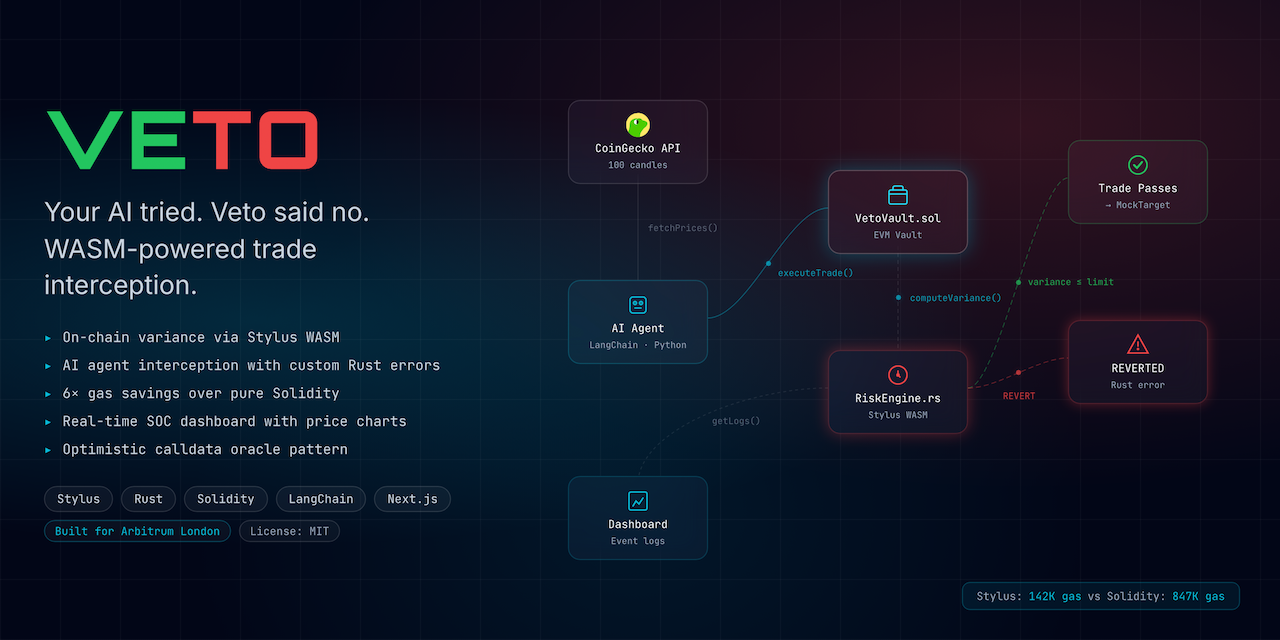
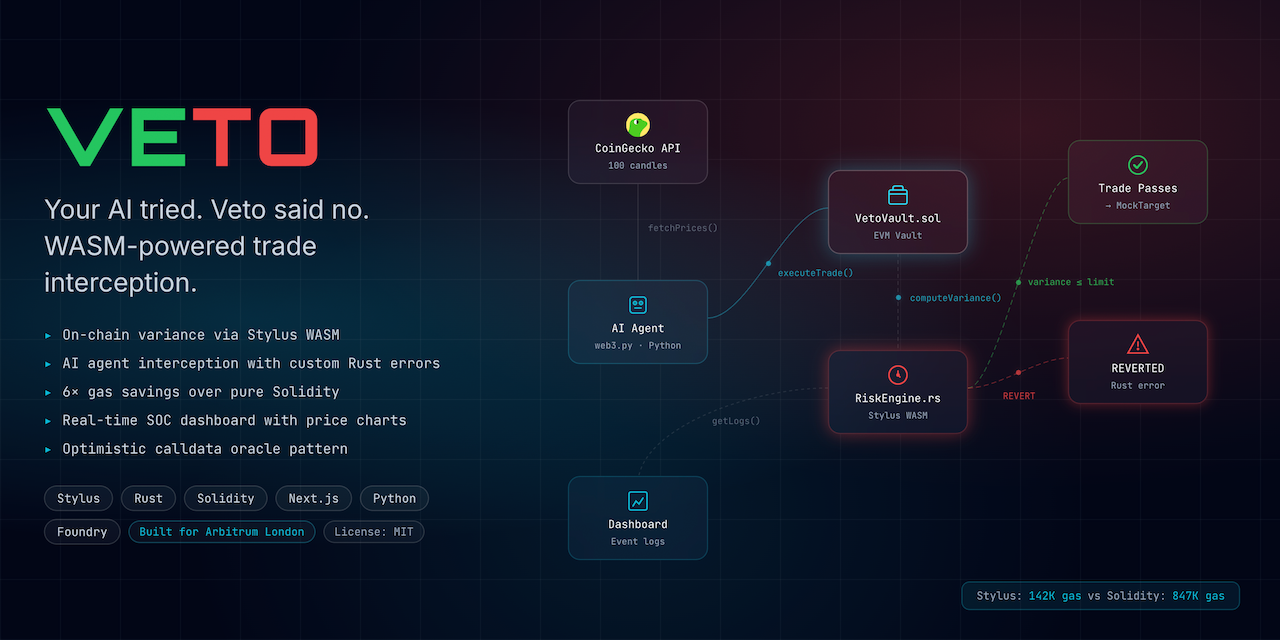
docs: add security policy, update documentation, and refine test/deployment configurations

diff --git a/dashboard/src/app/layout.tsx b/dashboard/src/app/layout.tsx
@@ -13,7 +13,7 @@ const jetbrainsMono = JetBrains_Mono({
 });
 
 export const metadata: Metadata = {
-  metadataBase: new URL("https://veto-dashboard.vercel.app"),
+  metadataBase: new URL("https://veto.edycu.dev"),
   title: "Veto — Your AI tried. Veto said no.",
   description:
     "Hybrid EVM/WASM execution sandbox that physically prevents AI agents from executing hallucinated trades. Solidity holds the money. Rust does the math. Built on Robinhood Chain with Arbitrum Stylus.",
@@ -24,7 +24,7 @@ export const metadata: Metadata = {
     title: "Veto — Your AI tried. Veto said no.",
     description:
       "Hybrid EVM/WASM execution sandbox that blocks volatile AI trades on-chain via Stylus math coprocessor.",
-    url: "https://veto-dashboard.vercel.app",
+    url: "https://veto.edycu.dev",
     siteName: "Veto",
     images: [
       {

diff --git a/README.md b/README.md
@@ -70,7 +70,7 @@ Autonomous AI trading agents are proliferating across DeFi. They optimize for re
 
 | Layer | Technology |
 |---|---|
-| **Vault** | Solidity (EVM) — fund custody, access control, 23 passing tests |
+| **Vault** | Solidity (EVM) — fund custody, access control, 33 passing tests |
 | **Risk Engine** | Rust/Stylus (WASM) — variance computation, `no_std`, U256 math |
 | **AI Agent** | Python + web3.py — market monitoring + trade execution |
 | **Dashboard** | Next.js 16 + Tailwind v4 — cyberpunk control panel |
@@ -110,7 +110,7 @@ Autonomous AI trading agents are proliferating across DeFi. They optimize for re
 git clone https://github.com/edycutjong/veto.git
 cd veto
 
-# 2. Run Solidity tests (23 tests)
+# 2. Run Solidity tests (33 tests)
 cd contracts/solidity && forge test -vvv && cd ../..
 
 # 3. Build Stylus WASM
@@ -134,7 +134,7 @@ npm run lint          # ESLint
 npm run typecheck     # TypeScript check
 npm run ci            # Full CI pipeline (lint + typecheck + test + build)
 
-# Solidity (23 tests)
+# Solidity (33 tests)
 cd contracts/solidity
 forge test -vvv
 
@@ -143,43 +143,45 @@ cd contracts/stylus
 cargo test --features stylus-test
 ```
 
-CI runs on every push via GitHub Actions: Dashboard (Node 20/22/24), Foundry tests, and Stylus WASM build.
+CI runs on every push via GitHub Actions: Dashboard lint + typecheck + test + build (Node 20/22/24), Foundry tests, and Stylus WASM build.
 
 ## 📁 Project Structure
 
 ```
 veto/
 ├── contracts/
-│   ├── solidity/               # EVM layer
+│   ├── solidity/                   # EVM layer
 │   │   ├── src/
 │   │   │   ├── VetoVault.sol       # Fund custody + trade interception
 │   │   │   ├── IRiskEngine.sol     # Interface for cross-contract Stylus call
 │   │   │   └── RiskEngineSol.sol   # Pure-Solidity variance (gas benchmark)
 │   │   └── test/
-│   │       └── VetoVault.t.sol     # Foundry tests (23 passing)
-│   └── stylus/                 # WASM math coprocessor (Rust)
+│   │       └── VetoVault.t.sol     # Foundry tests (33 passing)
+│   └── stylus/                     # WASM math coprocessor (Rust)
 │       └── src/
 │           ├── lib.rs              # compute_variance() + check_volatility()
 │           └── main.rs             # Stylus entrypoint
-├── agent/                      # Python AI trading agent
-│   ├── agent.py                # Orchestrator (demo + live modes)
-│   ├── config.py               # Contract ABIs and addresses
-│   ├── price_fetcher.py        # CoinGecko price feed
-│   ├── Procfile                # Railway start command
-│   ├── requirements.txt        # Python dependencies
-│   ├── .env.example            # Environment template
-│   └── tests/                  # pytest suites
+├── agent/                          # Python AI trading agent
+│   ├── agent.py                    # Orchestrator (demo + live modes)
+│   ├── config.py                   # Contract ABIs and addresses
+│   ├── price_fetcher.py            # CoinGecko price feed
+│   ├── Procfile                    # Railway start command
+│   ├── requirements.txt            # Python dependencies
+│   ├── .env.example                # Environment template
+│   └── tests/                      # pytest suites
 │       ├── test_agent.py
 │       └── test_price_fetcher.py
-├── dashboard/                  # Next.js 16 cyberpunk dashboard
-│   ├── src/app/                # Pages and layout
-│   └── public/                 # Icon SVG + OG image
-├── docs/                       # README assets (hero, architecture, screenshots)
-├── scripts/                    # Deployment helpers (deploy.sh, verify.sh, demo.sh)
-├── test/                       # Integration tests
-├── .github/                    # CI + CodeQL + Dependabot
-└── LICENSE                     # MIT
+├── dashboard/                      # Next.js 16 cyberpunk dashboard
+│   ├── src/app/                    # Pages and layout
+│   └── public/                     # Icon SVG + OG image
+├── docs/                           # README assets (hero, architecture, screenshots)
+├── scripts/                        # Deployment helpers (deploy.sh, verify.sh, demo.sh)
+├── test/                           # Integration tests (in progress)
+├── .github/                        # CI + CodeQL + Dependabot
+└── LICENSE                         # MIT
 ```
+
+> Component docs: [Agent](agent/README.md) · [Dashboard](dashboard/README.md) · [Solidity Contracts](contracts/solidity/README.md)
 
 ## 📄 License
 

diff --git a/dashboard/README.md b/dashboard/README.md
@@ -15,7 +15,7 @@ The dashboard functions as a military-grade SOC monitor, providing humans with l
 
 ## 🚀 Key Features
 
-*   **Real-Time On-Chain Telemetry:** Direct RPC queries for live vault balance, execution statistics, and threshold settings from the [VetoVault](file:///Users/edycu/Projects/Hackathon/Veto/contracts/solidity/src/VetoVault.sol) contract using raw JSON-RPC over HTTPS.
+*   **Real-Time On-Chain Telemetry:** Direct RPC queries for live vault balance, execution statistics, and threshold settings from the `VetoVault` contract using raw JSON-RPC over HTTPS.
 *   **Dynamic Price Charting:** Clean SVG-based price series lines with animated gradient fills and glow filters, clearly indicating the maximum variance limit interface.
 *   **Split-Pane Observability:** 
     *   **Execution Logs:** Direct visual list of approved and intercepted trade attempts complete with token details, calculated variance, and direct link verification to the Arbiscan Sepolia block explorer.
@@ -61,7 +61,7 @@ graph TD
 
 ## ⚙ Configuration & Environment
 
-The dashboard interacts with the blockchain through Next.js environment variables. See [dashboard/.env.example](file:///Users/edycu/Projects/Hackathon/Veto/dashboard/.env.example) for setup targets.
+The dashboard interacts with the blockchain through Next.js environment variables. See `.env.example` in this directory for all available options.
 
 Create a `.env.local` file inside this directory:
 
@@ -76,7 +76,7 @@ NEXT_PUBLIC_VAULT_ADDRESS=0x77435CF556A3705496Aa3739bD3678D9edfcB69c
 NEXT_PUBLIC_RISK_ENGINE_ADDRESS=0x0a94398c550226ca01570afede89e378d81e9426
 
 # Python Backend Agent API URL (required for live sync with the agent, falls back to static /trades.json)
-NEXT_PUBLIC_AGENT_URL=http://localhost:8000
+NEXT_PUBLIC_AGENT_URL=http://localhost:8080
 ```
 
 > [!NOTE]
@@ -128,13 +128,17 @@ dashboard/
 │   └── app/
 │       ├── api/
 │       │   └── vault/
-│       │       └── route.ts     # RPC communication bridge
-│       ├── globals.css          # Scanlines, glow effects, glassmorphism UI
-│       ├── layout.tsx           # Dashboard layout
-│       └── page.tsx             # Main dashboard UI
+│       │       └── route.ts         # RPC communication bridge
+│       ├── dashboard/
+│       │   └── page.tsx             # Security console (SOC monitor)
+│       ├── globals.css              # Scanlines, glow effects, glassmorphism UI
+│       ├── layout.tsx               # Root layout and metadata
+│       └── page.tsx                 # Landing page
 ├── public/
-│   └── trades.json              # Shared trade attempts log
-├── jest.config.ts               # Test configurations
-└── package.json                 # Next.js / Tailwind build configuration
+│   ├── icon.svg                     # Veto shield icon
+│   ├── og-image.png                 # Social preview image
+│   └── trades.json                  # Shared trade attempts log
+├── jest.config.ts                   # Test configuration
+└── package.json                     # Next.js / Tailwind build configuration
 ```
 

diff --git a/SECURITY.md b/SECURITY.md
@@ -1,0 +1,55 @@
+# Security Policy
+
+## Testnet Notice
+
+Veto is currently deployed on **Arbitrum Sepolia testnet only**. There are no real funds at risk. If and when Veto moves to mainnet, this policy will be updated accordingly.
+
+## Scope
+
+The following components are in scope for security reports:
+
+| Component | Location |
+|---|---|
+| `VetoVault.sol` — fund custody, access control, trade interception | `contracts/solidity/src/VetoVault.sol` |
+| `RiskEngine` (Stylus/WASM) — variance computation, threshold enforcement | `contracts/stylus/src/lib.rs` |
+| `IRiskEngine.sol` — cross-contract ABI interface | `contracts/solidity/src/IRiskEngine.sol` |
+
+The dashboard (`dashboard/`) and Python agent (`agent/`) are out of scope for security reports — they are off-chain components and hold no funds.
+
+## Reporting a Vulnerability
+
+**Do not open a public GitHub issue for security vulnerabilities.**
+
+Report privately via one of:
+
+- **GitHub private advisory**: [github.com/edycutjong/veto/security/advisories/new](https://github.com/edycutjong/veto/security/advisories/new)
+- **Email**: edy.cu@live.com
+
+Include in your report:
+- Description of the vulnerability
+- Steps to reproduce
+- Affected contract and function(s)
+- Potential impact
+
+## What to Expect
+
+| Timeline | Action |
+|---|---|
+| Within 48 hours | Acknowledgement of your report |
+| Within 7 days | Initial assessment and severity triage |
+| Within 30 days | Fix or mitigation, coordinated disclosure |
+
+We follow responsible disclosure — we ask that you give us reasonable time to address the issue before making it public.
+
+## Known Limitations
+
+- The Stylus risk engine trusts price calldata provided by the agent. A malicious agent could supply manipulated prices — this is a known design trade-off documented in `contracts/stylus/src/lib.rs`.
+- `RiskEngineSol.sol` is a benchmarking contract only and is not used in production.
+
+## Out of Scope
+
+- Issues on Arbitrum Sepolia testnet with no mainnet equivalent
+- Bugs in `RiskEngineSol.sol` (benchmark only, not deployed in production)
+- Dashboard UI bugs
+- Agent trading logic
+- Third-party dependencies (Arbitrum Stylus SDK, OpenZeppelin, Foundry)

diff --git a/contracts/solidity/README.md b/contracts/solidity/README.md
@@ -12,7 +12,7 @@ EVM layer of the Veto execution sandbox. Handles fund custody, access control, a
 
 ## Tests
 
-23 tests, all passing. Run with:
+33 tests, all passing. Run with:
 
 ```bash
 forge test -vvv
@@ -26,11 +26,12 @@ forge snapshot
 
 ## Deployment
 
+Use the deploy script in `scripts/deploy.sh` from the repo root, or deploy manually:
+
 ```bash
-forge script script/Deploy.s.sol:DeployScript \
+forge create src/VetoVault.sol:VetoVault \
   --rpc-url $RPC_URL \
-  --private-key $PRIVATE_KEY \
-  --broadcast
+  --private-key $PRIVATE_KEY
 ```
 
 Set `RPC_URL` to the Robinhood Chain / Arbitrum Sepolia RPC endpoint. After deployment, copy the `VetoVault` and `RiskEngine` addresses into `agent/.env`.

diff --git a/agent/README.md b/agent/README.md
@@ -109,7 +109,4 @@ To run the agent 24/7 in the cloud:
     *   `RISK_ENGINE_ADDRESS`: The deployed WASM risk engine address.
     *   `AGENT_PRIVATE_KEY`: Private key for the EOA agent wallet.
     *   `LOOP_INTERVAL`: `60` (or your preferred execution frequency).
-4. **Set Start Command**: Railway will auto-detect Python. In settings, set the **Start Command** to:
-   ```bash
-   python agent.py
-   ```
+4. **Start Command**: The `Procfile` in the `agent/` directory (`web: python agent.py`) is detected automatically by Railway. No manual start command needed unless you override it.
